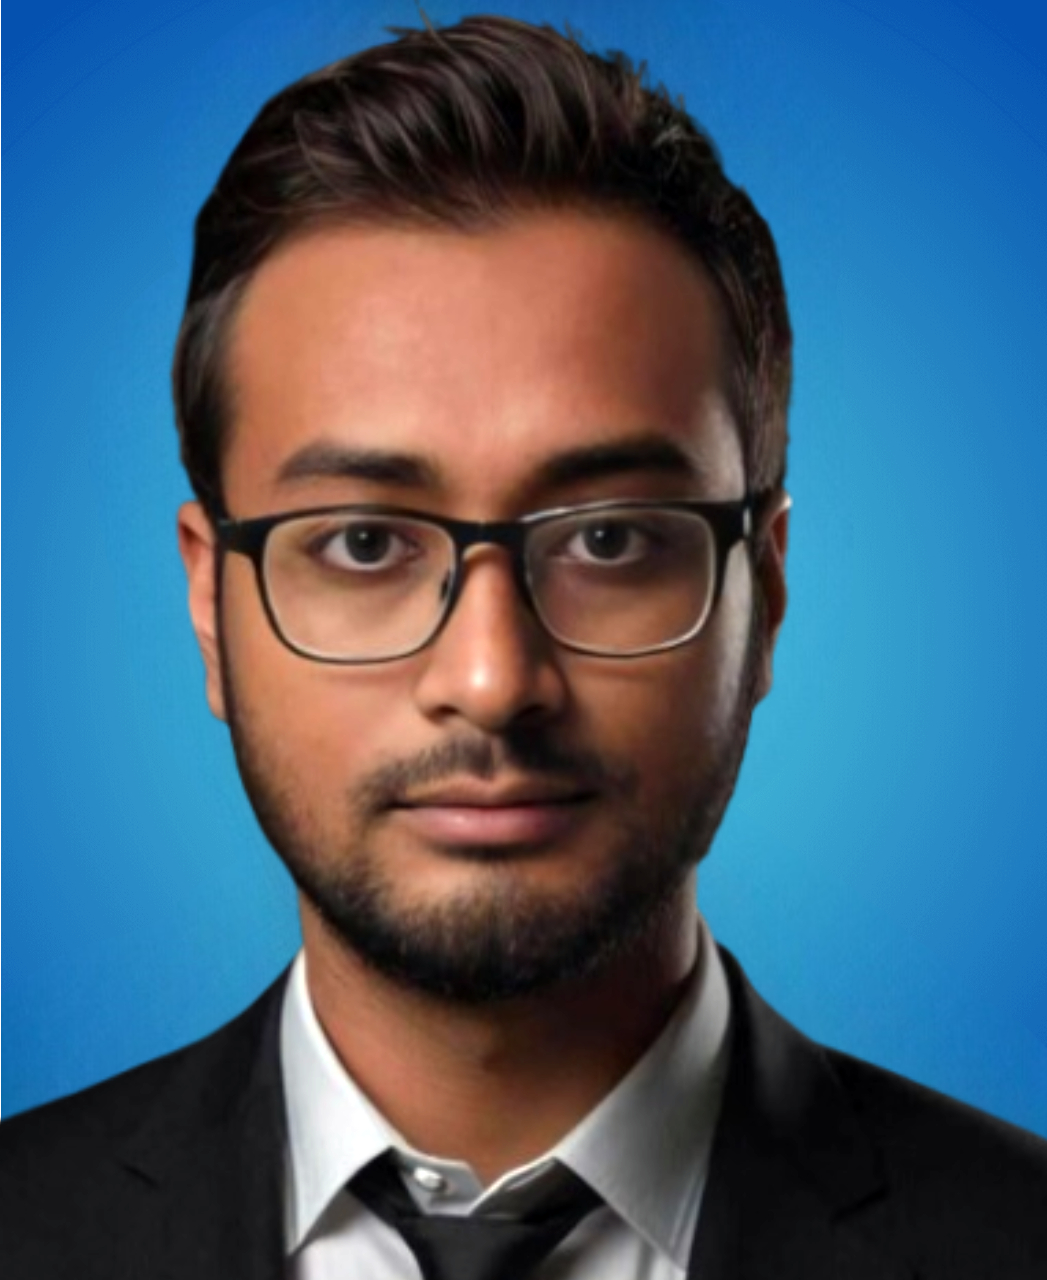
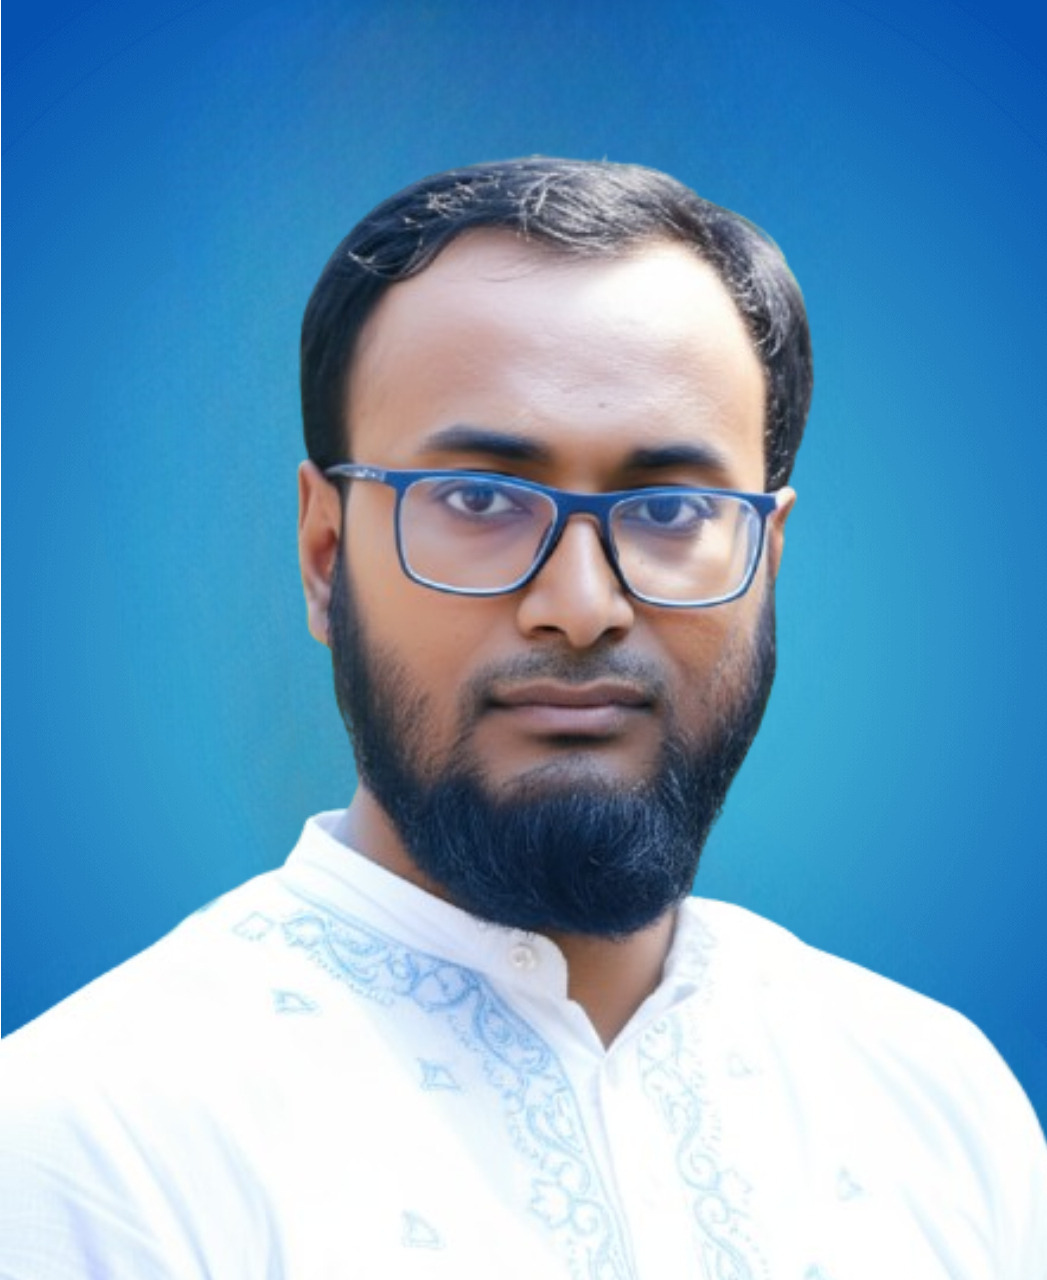
add data

diff --git a/components/header.tsx b/components/header.tsx
@@ -1,23 +1,47 @@
 "use client";
 
-import { Menu, X } from "lucide-react";
+import { ChevronDown, Menu, X } from "lucide-react";
 import Image from "next/image";
 import Link from "next/link";
-import { useEffect, useState } from "react";
+import { usePathname } from "next/navigation";
+import { useEffect, useRef, useState } from "react";
 import ThemeToggle from "./theme-toggle";
 
 export default function Header() {
   const [isScrolled, setIsScrolled] = useState(false);
   const [mobileMenuOpen, setMobileMenuOpen] = useState(false);
+  const [teamOpen, setTeamOpen] = useState(false);
 
+  const pathname = usePathname();
+  const dropdownRef = useRef<HTMLDivElement>(null);
+
+  // Close dropdown if clicking outside
   useEffect(() => {
-    const handleScroll = () => {
-      setIsScrolled(window.scrollY > 10);
-    };
+    function handleClickOutside(event: MouseEvent) {
+      if (
+        dropdownRef.current &&
+        !dropdownRef.current.contains(event.target as Node)
+      ) {
+        setTeamOpen(false);
+      }
+    }
+    if (teamOpen) {
+      document.addEventListener("mousedown", handleClickOutside);
+    }
+    return () => document.removeEventListener("mousedown", handleClickOutside);
+  }, [teamOpen]);
 
-    window.addEventListener("scroll", handleScroll);
-    return () => window.removeEventListener("scroll", handleScroll);
-  }, []);
+  // Reset state on route change and scroll detection
+  useEffect(() => {
+    setMobileMenuOpen(false);
+    setTeamOpen(false);
+
+    function onScroll() {
+      setIsScrolled(window.scrollY > 10);
+    }
+    window.addEventListener("scroll", onScroll);
+    return () => window.removeEventListener("scroll", onScroll);
+  }, [pathname]);
 
   return (
     <header
@@ -41,7 +65,8 @@ export default function Header() {
           </Link>
 
           <div className="flex items-center gap-4">
-            <nav className="hidden md:flex items-center gap-6 uppercase">
+            {/* Desktop Navigation */}
+            <nav className="hidden md:flex items-center gap-6">
               <Link
                 href="/"
                 className="text-md font-medium text-white hover:text-white transition-colors"
@@ -60,26 +85,49 @@ export default function Header() {
               >
                 Investors
               </Link>
-              <Link
-                href="/teams"
-                className="text-md font-medium text-white hover:text-white transition-colors"
-              >
-                Teams
-              </Link> 
-              {/* <Link
-                href="/mentors"
-                className="text-md font-medium text-white hover:text-white transition-colors"
-              >
-                Mentors
-              </Link> */}
-              <Link
-                href="/about"
-                className="text-md font-medium text-white hover:text-white transition-colors"
-              >
-                About
-              </Link>
+
+              {/* Desktop Dropdown — opens/closes on click */}
+              <div ref={dropdownRef} className="relative">
+                <button
+                  aria-haspopup="true"
+                  aria-expanded={teamOpen}
+                  onClick={() => setTeamOpen((open) => !open)}
+                  className="flex items-center gap-1 text-md font-medium text-white hover:text-white transition-colors focus:outline-none"
+                  onKeyDown={(e) => {
+                    if (e.key === "Enter" || e.key === " ") {
+                      e.preventDefault();
+                      setTeamOpen((open) => !open);
+                    }
+                    if (e.key === "Escape") {
+                      setTeamOpen(false);
+                    }
+                  }}
+                >
+                  Company <ChevronDown className="size-4" />
+                </button>
+
+                {teamOpen && (
+                  <div className="absolute left-0 mt-2 w-48 bg-gray-900 border border-gray-800 rounded-lg shadow-xl py-2 z-50">
+                    <Link
+                      href="/about"
+                      className="block px-4 py-2 text-sm text-gray-300 hover:text-white hover:bg-gray-800/50"
+                      onClick={() => setTeamOpen(false)}
+                    >
+                      About
+                    </Link>
+                    <Link
+                      href="/teams"
+                      className="block px-4 py-2 text-sm text-gray-300 hover:text-white hover:bg-gray-800/50"
+                      onClick={() => setTeamOpen(false)}
+                    >
+                      Team
+                    </Link>
+                  </div>
+                )}
+              </div>
             </nav>
 
+            {/* Right side buttons (desktop) */}
             <div className="hidden md:flex items-center gap-4">
               <ThemeToggle />
               <Link
@@ -96,6 +144,7 @@ export default function Header() {
               </Link>
             </div>
 
+            {/* Mobile Hamburger */}
             <div className="flex md:hidden items-center gap-4">
               <ThemeToggle />
               <Link
@@ -107,6 +156,7 @@ export default function Header() {
               <button
                 onClick={() => setMobileMenuOpen(!mobileMenuOpen)}
                 className="flex items-center justify-center size-10 text-gray-300"
+                aria-label="Toggle menu"
               >
                 {mobileMenuOpen ? (
                   <X className="size-6" />
@@ -120,8 +170,15 @@ export default function Header() {
 
         {/* Mobile Menu */}
         {mobileMenuOpen && (
-          <div className="md:hidden py-4 border-t border-gray-800">
+          <div className="md:hidden py-4 border-t border-gray-800 bg-gray-800">
             <nav className="flex flex-col gap-4 mb-6">
+              <Link
+                href="/"
+                className="text-sm font-medium text-gray-300 hover:text-white transition-colors px-4 py-2"
+                onClick={() => setMobileMenuOpen(false)}
+              >
+                Home
+              </Link>
               <Link
                 href="/projects"
                 className="text-sm font-medium text-gray-300 hover:text-white transition-colors px-4 py-2"
@@ -136,20 +193,45 @@ export default function Header() {
               >
                 Investors
               </Link>
-              <Link
-                href="/mentors"
-                className="text-sm font-medium text-gray-300 hover:text-white transition-colors px-4 py-2"
-                onClick={() => setMobileMenuOpen(false)}
-              >
-                Mentors
-              </Link>
-              <Link
-                href="/about"
-                className="text-sm font-medium text-gray-300 hover:text-white transition-colors px-4 py-2"
-                onClick={() => setMobileMenuOpen(false)}
-              >
-                About
-              </Link>
+
+              {/* Mobile Dropdown */}
+              <div className="flex flex-col">
+                <button
+                  onClick={() => setTeamOpen((open) => !open)}
+                  className="flex items-center justify-between text-sm font-medium text-gray-300 hover:text-white transition-colors px-4 py-2"
+                  aria-expanded={teamOpen}
+                  aria-controls="mobile-team-dropdown"
+                >
+                  <span>Company</span>
+                  <ChevronDown
+                    className={`size-4 transition-transform ${
+                      teamOpen ? "rotate-180" : ""
+                    }`}
+                  />
+                </button>
+
+                {teamOpen && (
+                  <div
+                    id="mobile-team-dropdown"
+                    className="bg-gray-800/50 rounded-md mt-1 mb-1 mx-4"
+                  >
+                    <Link
+                      href="/about"
+                      className="block px-4 py-2 text-sm text-gray-300 hover:text-white"
+                      onClick={() => setMobileMenuOpen(false)}
+                    >
+                      About
+                    </Link>
+                    <Link
+                      href="/teams"
+                      className="block px-4 py-2 text-sm text-gray-300 hover:text-white"
+                      onClick={() => setMobileMenuOpen(false)}
+                    >
+                      Our Team
+                    </Link>
+                  </div>
+                )}
+              </div>
             </nav>
 
             <div className="flex flex-col gap-3 px-4">

diff --git a/components/TeamMemberCard.tsx b/components/TeamMemberCard.tsx
@@ -1,69 +1,69 @@
 "use client";
-import Image from 'next/image';
-import Link from 'next/link';
-import { Facebook, Twitter, Linkedin, Plus } from 'lucide-react';
+import { Facebook, Linkedin, Plus, Twitter } from "lucide-react";
+import Image from "next/image";
+import Link from "next/link";
 
 const TeamMemberCard = ({ member }) => {
   // Function to get the appropriate icon based on platform
   const getIcon = (platform) => {
     switch (platform) {
-      case 'facebook':
+      case "facebook":
         return <Facebook size={18} />;
-      case 'twitter':
+      case "twitter":
         return <Twitter size={18} />;
-      case 'linkedin':
+      case "linkedin":
         return <Linkedin size={18} />;
-      case 'more':
+      case "more":
         return <Plus size={18} />;
       default:
         return <Plus size={18} />;
     }
   };
-  
+
   return (
     <div className="group relative rounded-lg overflow-hidden bg-gray-900 shadow-lg">
       {/* Team member image with hover effect */}
       <div className="aspect-[3/4] relative overflow-hidden">
         {/* Image with slow scale effect */}
-        <Image 
-          src={member.image} 
+        <Image
+          src={member.image}
           alt={member.name}
           fill
           className="object-cover transition-transform duration-[2000ms] ease-in-out group-hover:scale-110"
           sizes="(max-width: 768px) 100vw, (max-width: 1200px) 50vw, 25vw"
         />
-        
+
         {/* Diagonal overlay effect - slowly appears on hover */}
         {/* <div 
           className="absolute inset-0 bg-gradient-to-tr from-cyan-500/0 via-white/20 to-cyan-500/0 
                      opacity-0 group-hover:opacity-100 transition-opacity duration-[1500ms] ease-in-out"
           aria-hidden="true"
         ></div> */}
-        
+
         {/* Alternative diagonal overlay that grows */}
-        <div 
+        <div
           className="absolute left-1/2 top-1/2 w-[200%] h-0 -translate-x-1/2 -translate-y-1/2 -rotate-45 
-                     bg-white/20 z-[1] transition-all duration-[1500ms] ease-linear
-                     group-hover:h-[250%] group-hover:bg-white/10"
+             bg-white/10 z-[1] transition-all duration-[8500ms] ease-linear
+             group-hover:h-[250%] group-hover:bg-white/5"
           aria-hidden="true"
-        ></div>
-        
+        />
+
         {/* Vertical accent line */}
         {/* <div className="absolute left-8 bottom-0 w-1 h-16 bg-cyan-500"></div> */}
       </div>
-      
+
       {/* Social media links with staggered appearance */}
       <div className="absolute right-4 top-1/2 transform -translate-y-1/2 flex flex-col space-y-1 z-10">
         {member.socialLinks.map((link, index) => (
-          <Link 
-            key={index} 
+          <Link
+            key={index}
             href={link.url}
             className={`w-10 h-10 flex items-center justify-center rounded text-white 
                       opacity-0 translate-x-8 group-hover:opacity-100 group-hover:translate-x-0
                       hover:scale-110 transition-all duration-700 ease-out`}
-            style={{ 
+            style={{
               backgroundColor: link.color,
-              transitionDelay: `${100 + index * 100}ms` 
+              transitionDelay: `${100 + index * 100}ms`,
             }}
             target="_blank"
             rel="noopener noreferrer"
@@ -72,7 +72,7 @@ const TeamMemberCard = ({ member }) => {
           </Link>
         ))}
       </div>
-      
+
       {/* Name and role info */}
       <div className="p-4 bg-gray-900/50">
         <h3 className="text-xl font-bold text-white">{member.name}</h3>

diff --git a/app/investors/page.tsx b/app/investors/page.tsx
@@ -68,8 +68,8 @@ export default function InvestorsPage() {
             </div>
             <h3 className="text-3xl font-bold mb-2">34%</h3>
             <p className="text-gray-400">Average Return on Investment</p>
-          </div>
-
+          </div>  
+    
           <div className="bg-gray-900/50 border border-gray-800 rounded-xl p-6 text-center">
             <div className="size-16 mx-auto mb-4 rounded-full bg-blue-500/20 flex items-center justify-center">
               <Users className="size-8 text-blue-400" />

diff --git a/app/teams/page.tsx b/app/teams/page.tsx
@@ -6,7 +6,7 @@ const TeamSection = () => {
     <section className="py-16 px-4 bg-gray-750 mt-8">
       <div className="max-w-7xl mx-auto">
         <div className="text-center mb-12">
-          <span className="text-[#FE9B15] font-medium text-center">Team Members</span>
+          {/* <span className="text-[#FE9B15] font-medium text-center">Team Members</span> */}
           <h2 className="text-4xl md:text-5xl font-bold mt-2 mb-4 text-white">
             Meet Our Exceptional Team
           </h2>

diff --git a/app/layout.tsx b/app/layout.tsx
@@ -42,7 +42,6 @@ export default function RootLayout({
         />
       </head>
       <body className="min-h-screen bg-black text-white antialiased">
-        
         <ThemeProvider>
           <div className="relative flex min-h-screen flex-col">
             <Header />
